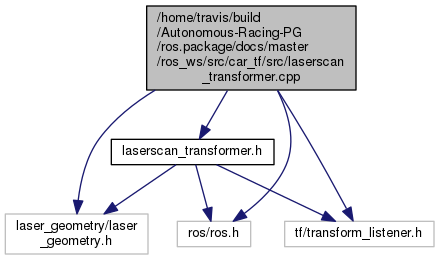
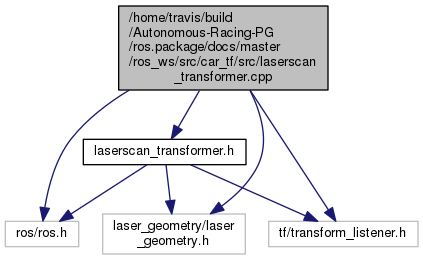
Deploy code docs to GitHub Pages Travis build: 1035
Commit: b9d086582c2d78c8a29aee9b146b80d62b1f7d7c

diff --git a/html/laserscan__transformer_8h_source.html b/html/laserscan__transformer_8h_source.html
@@ -111,10 +111,10 @@ $(document).ready(function(){initNavTree('laserscan__transformer_8h_source.html'
 <div class="title">laserscan_transformer.h</div>  </div>
 </div><!--header-->
 <div class="contents">
-<a href="laserscan__transformer_8h.html">Go to the documentation of this file.</a><div class="fragment"><div class="line"><a name="l00001"></a><span class="lineno">    1</span>&#160;<span class="preprocessor">#pragma once</span></div><div class="line"><a name="l00002"></a><span class="lineno">    2</span>&#160;</div><div class="line"><a name="l00003"></a><span class="lineno">    3</span>&#160;<span class="preprocessor">#include &lt;laser_geometry/laser_geometry.h&gt;</span></div><div class="line"><a name="l00004"></a><span class="lineno">    4</span>&#160;<span class="preprocessor">#include &lt;ros/ros.h&gt;</span></div><div class="line"><a name="l00005"></a><span class="lineno">    5</span>&#160;<span class="preprocessor">#include &lt;tf/transform_listener.h&gt;</span></div><div class="line"><a name="l00006"></a><span class="lineno">    6</span>&#160;</div><div class="line"><a name="l00007"></a><span class="lineno"><a class="line" href="laserscan__transformer_8h.html#a47333d71d0bb2a72869aa7441034798c">    7</a></span>&#160;constexpr <span class="keyword">const</span> <span class="keywordtype">char</span>* <a class="code" href="laserscan__transformer_8h.html#a47333d71d0bb2a72869aa7441034798c">TOPIC_LASER_SCAN</a> = <span class="stringliteral">&quot;/racer/laser/scan&quot;</span>;</div><div class="line"><a name="l00008"></a><span class="lineno"><a class="line" href="laserscan__transformer_8h.html#a71026150c7c235a54f41d65e2e09d179">    8</a></span>&#160;constexpr <span class="keyword">const</span> <span class="keywordtype">char</span>* <a class="code" href="laserscan__transformer_8h.html#a71026150c7c235a54f41d65e2e09d179">TOPIC_LASER_SCAN_POINTCLOUD</a> = <span class="stringliteral">&quot;/racer/laser/tf_pointcloud&quot;</span>;</div><div class="line"><a name="l00009"></a><span class="lineno"><a class="line" href="laserscan__transformer_8h.html#a4926bba825b08114a4703807e2639725">    9</a></span>&#160;constexpr <span class="keyword">const</span> <span class="keywordtype">char</span>* <a class="code" href="laserscan__transformer_8h.html#a4926bba825b08114a4703807e2639725">MODEL_BASE_LINK</a> = <span class="stringliteral">&quot;base_link&quot;</span>;</div><div class="line"><a name="l00010"></a><span class="lineno">   10</span>&#160;</div><div class="line"><a name="l00019"></a><span class="lineno"><a class="line" href="class_laserscan_transformer.html">   19</a></span>&#160;<span class="keyword">class </span><a class="code" href="class_laserscan_transformer.html">LaserscanTransformer</a></div><div class="line"><a name="l00020"></a><span class="lineno">   20</span>&#160;{</div><div class="line"><a name="l00021"></a><span class="lineno">   21</span>&#160;    <span class="keyword">public</span>:</div><div class="line"><a name="l00022"></a><span class="lineno">   22</span>&#160;    <a class="code" href="class_laserscan_transformer.html#a3fe9989fc225e8eaeea106f58db09db0">LaserscanTransformer</a>();</div><div class="line"><a name="l00023"></a><span class="lineno">   23</span>&#160;</div><div class="line"><a name="l00024"></a><span class="lineno">   24</span>&#160;    <span class="keyword">private</span>:</div><div class="line"><a name="l00025"></a><span class="lineno">   25</span>&#160;    ros::NodeHandle m_node_handle;</div><div class="line"><a name="l00026"></a><span class="lineno">   26</span>&#160;    ros::Subscriber m_laserscan_subscriber;</div><div class="line"><a name="l00027"></a><span class="lineno">   27</span>&#160;    ros::Publisher m_pointcloud_publisher;</div><div class="line"><a name="l00028"></a><span class="lineno">   28</span>&#160;    laser_geometry::LaserProjection m_projector;</div><div class="line"><a name="l00029"></a><span class="lineno">   29</span>&#160;    tf::TransformListener m_listener;</div><div class="line"><a name="l00030"></a><span class="lineno">   30</span>&#160;</div><div class="line"><a name="l00031"></a><span class="lineno">   31</span>&#160;    <span class="keywordtype">void</span> scanCallback(<span class="keyword">const</span> sensor_msgs::LaserScan::ConstPtr&amp; laserscan);</div><div class="line"><a name="l00032"></a><span class="lineno">   32</span>&#160;};</div><div class="ttc" id="class_laserscan_transformer_html"><div class="ttname"><a href="class_laserscan_transformer.html">LaserscanTransformer</a></div><div class="ttdoc">This converter class converts a 2D laser scan as defined by sensor_msgs/LaserScan into a point cloud ...</div><div class="ttdef"><b>Definition:</b> <a href="laserscan__transformer_8h_source.html#l00019">laserscan_transformer.h:19</a></div></div>
-<div class="ttc" id="laserscan__transformer_8h_html_a4926bba825b08114a4703807e2639725"><div class="ttname"><a href="laserscan__transformer_8h.html#a4926bba825b08114a4703807e2639725">MODEL_BASE_LINK</a></div><div class="ttdeci">constexpr const char * MODEL_BASE_LINK</div><div class="ttdef"><b>Definition:</b> <a href="laserscan__transformer_8h_source.html#l00009">laserscan_transformer.h:9</a></div></div>
-<div class="ttc" id="laserscan__transformer_8h_html_a47333d71d0bb2a72869aa7441034798c"><div class="ttname"><a href="laserscan__transformer_8h.html#a47333d71d0bb2a72869aa7441034798c">TOPIC_LASER_SCAN</a></div><div class="ttdeci">constexpr const char * TOPIC_LASER_SCAN</div><div class="ttdef"><b>Definition:</b> <a href="laserscan__transformer_8h_source.html#l00007">laserscan_transformer.h:7</a></div></div>
-<div class="ttc" id="laserscan__transformer_8h_html_a71026150c7c235a54f41d65e2e09d179"><div class="ttname"><a href="laserscan__transformer_8h.html#a71026150c7c235a54f41d65e2e09d179">TOPIC_LASER_SCAN_POINTCLOUD</a></div><div class="ttdeci">constexpr const char * TOPIC_LASER_SCAN_POINTCLOUD</div><div class="ttdef"><b>Definition:</b> <a href="laserscan__transformer_8h_source.html#l00008">laserscan_transformer.h:8</a></div></div>
+<a href="laserscan__transformer_8h.html">Go to the documentation of this file.</a><div class="fragment"><div class="line"><a name="l00001"></a><span class="lineno">    1</span>&#160;<span class="preprocessor">#pragma once</span></div><div class="line"><a name="l00002"></a><span class="lineno">    2</span>&#160;</div><div class="line"><a name="l00003"></a><span class="lineno">    3</span>&#160;<span class="preprocessor">#include &lt;ros/ros.h&gt;</span></div><div class="line"><a name="l00004"></a><span class="lineno">    4</span>&#160;</div><div class="line"><a name="l00005"></a><span class="lineno">    5</span>&#160;<span class="preprocessor">#pragma GCC diagnostic push</span></div><div class="line"><a name="l00006"></a><span class="lineno">    6</span>&#160;<span class="preprocessor">#pragma GCC diagnostic ignored &quot;-Wfloat-equal&quot;</span></div><div class="line"><a name="l00007"></a><span class="lineno">    7</span>&#160;<span class="preprocessor">#pragma GCC diagnostic ignored &quot;-Wdouble-promotion&quot;</span></div><div class="line"><a name="l00008"></a><span class="lineno">    8</span>&#160;<span class="preprocessor">#include &lt;laser_geometry/laser_geometry.h&gt;</span></div><div class="line"><a name="l00009"></a><span class="lineno">    9</span>&#160;<span class="preprocessor">#include &lt;tf/transform_listener.h&gt;</span></div><div class="line"><a name="l00010"></a><span class="lineno">   10</span>&#160;<span class="preprocessor">#pragma GCC diagnostic pop</span></div><div class="line"><a name="l00011"></a><span class="lineno">   11</span>&#160;</div><div class="line"><a name="l00012"></a><span class="lineno"><a class="line" href="laserscan__transformer_8h.html#a47333d71d0bb2a72869aa7441034798c">   12</a></span>&#160;constexpr <span class="keyword">const</span> <span class="keywordtype">char</span>* <a class="code" href="laserscan__transformer_8h.html#a47333d71d0bb2a72869aa7441034798c">TOPIC_LASER_SCAN</a> = <span class="stringliteral">&quot;/racer/laser/scan&quot;</span>;</div><div class="line"><a name="l00013"></a><span class="lineno"><a class="line" href="laserscan__transformer_8h.html#a71026150c7c235a54f41d65e2e09d179">   13</a></span>&#160;constexpr <span class="keyword">const</span> <span class="keywordtype">char</span>* <a class="code" href="laserscan__transformer_8h.html#a71026150c7c235a54f41d65e2e09d179">TOPIC_LASER_SCAN_POINTCLOUD</a> = <span class="stringliteral">&quot;/racer/laser/tf_pointcloud&quot;</span>;</div><div class="line"><a name="l00014"></a><span class="lineno"><a class="line" href="laserscan__transformer_8h.html#a4926bba825b08114a4703807e2639725">   14</a></span>&#160;constexpr <span class="keyword">const</span> <span class="keywordtype">char</span>* <a class="code" href="laserscan__transformer_8h.html#a4926bba825b08114a4703807e2639725">MODEL_BASE_LINK</a> = <span class="stringliteral">&quot;base_link&quot;</span>;</div><div class="line"><a name="l00015"></a><span class="lineno">   15</span>&#160;</div><div class="line"><a name="l00024"></a><span class="lineno"><a class="line" href="class_laserscan_transformer.html">   24</a></span>&#160;<span class="keyword">class </span><a class="code" href="class_laserscan_transformer.html">LaserscanTransformer</a></div><div class="line"><a name="l00025"></a><span class="lineno">   25</span>&#160;{</div><div class="line"><a name="l00026"></a><span class="lineno">   26</span>&#160;    <span class="keyword">public</span>:</div><div class="line"><a name="l00027"></a><span class="lineno">   27</span>&#160;    <a class="code" href="class_laserscan_transformer.html#a3fe9989fc225e8eaeea106f58db09db0">LaserscanTransformer</a>();</div><div class="line"><a name="l00028"></a><span class="lineno">   28</span>&#160;</div><div class="line"><a name="l00029"></a><span class="lineno">   29</span>&#160;    <span class="keyword">private</span>:</div><div class="line"><a name="l00030"></a><span class="lineno">   30</span>&#160;    ros::NodeHandle m_node_handle;</div><div class="line"><a name="l00031"></a><span class="lineno">   31</span>&#160;    ros::Subscriber m_laserscan_subscriber;</div><div class="line"><a name="l00032"></a><span class="lineno">   32</span>&#160;    ros::Publisher m_pointcloud_publisher;</div><div class="line"><a name="l00033"></a><span class="lineno">   33</span>&#160;    laser_geometry::LaserProjection m_projector;</div><div class="line"><a name="l00034"></a><span class="lineno">   34</span>&#160;    tf::TransformListener m_listener;</div><div class="line"><a name="l00035"></a><span class="lineno">   35</span>&#160;</div><div class="line"><a name="l00036"></a><span class="lineno">   36</span>&#160;    <span class="keywordtype">void</span> scanCallback(<span class="keyword">const</span> sensor_msgs::LaserScan::ConstPtr&amp; laserscan);</div><div class="line"><a name="l00037"></a><span class="lineno">   37</span>&#160;};</div><div class="ttc" id="class_laserscan_transformer_html"><div class="ttname"><a href="class_laserscan_transformer.html">LaserscanTransformer</a></div><div class="ttdoc">This converter class converts a 2D laser scan as defined by sensor_msgs/LaserScan into a point cloud ...</div><div class="ttdef"><b>Definition:</b> <a href="laserscan__transformer_8h_source.html#l00024">laserscan_transformer.h:24</a></div></div>
+<div class="ttc" id="laserscan__transformer_8h_html_a4926bba825b08114a4703807e2639725"><div class="ttname"><a href="laserscan__transformer_8h.html#a4926bba825b08114a4703807e2639725">MODEL_BASE_LINK</a></div><div class="ttdeci">constexpr const char * MODEL_BASE_LINK</div><div class="ttdef"><b>Definition:</b> <a href="laserscan__transformer_8h_source.html#l00014">laserscan_transformer.h:14</a></div></div>
+<div class="ttc" id="laserscan__transformer_8h_html_a47333d71d0bb2a72869aa7441034798c"><div class="ttname"><a href="laserscan__transformer_8h.html#a47333d71d0bb2a72869aa7441034798c">TOPIC_LASER_SCAN</a></div><div class="ttdeci">constexpr const char * TOPIC_LASER_SCAN</div><div class="ttdef"><b>Definition:</b> <a href="laserscan__transformer_8h_source.html#l00012">laserscan_transformer.h:12</a></div></div>
+<div class="ttc" id="laserscan__transformer_8h_html_a71026150c7c235a54f41d65e2e09d179"><div class="ttname"><a href="laserscan__transformer_8h.html#a71026150c7c235a54f41d65e2e09d179">TOPIC_LASER_SCAN_POINTCLOUD</a></div><div class="ttdeci">constexpr const char * TOPIC_LASER_SCAN_POINTCLOUD</div><div class="ttdef"><b>Definition:</b> <a href="laserscan__transformer_8h_source.html#l00013">laserscan_transformer.h:13</a></div></div>
 <div class="ttc" id="class_laserscan_transformer_html_a3fe9989fc225e8eaeea106f58db09db0"><div class="ttname"><a href="class_laserscan_transformer.html#a3fe9989fc225e8eaeea106f58db09db0">LaserscanTransformer::LaserscanTransformer</a></div><div class="ttdeci">LaserscanTransformer()</div><div class="ttdef"><b>Definition:</b> <a href="laserscan__transformer_8cpp_source.html#l00006">laserscan_transformer.cpp:6</a></div></div>
 </div><!-- fragment --></div><!-- contents -->
 </div><!-- doc-content -->

diff --git a/html/laserscan__transformer_8cpp_source.html b/html/laserscan__transformer_8cpp_source.html
@@ -113,8 +113,8 @@ $(document).ready(function(){initNavTree('laserscan__transformer_8cpp_source.htm
 <div class="contents">
 <a href="laserscan__transformer_8cpp.html">Go to the documentation of this file.</a><div class="fragment"><div class="line"><a name="l00001"></a><span class="lineno">    1</span>&#160;<span class="preprocessor">#include &quot;<a class="code" href="laserscan__transformer_8h.html">laserscan_transformer.h</a>&quot;</span></div><div class="line"><a name="l00002"></a><span class="lineno">    2</span>&#160;<span class="preprocessor">#include &lt;laser_geometry/laser_geometry.h&gt;</span></div><div class="line"><a name="l00003"></a><span class="lineno">    3</span>&#160;<span class="preprocessor">#include &lt;ros/ros.h&gt;</span></div><div class="line"><a name="l00004"></a><span class="lineno">    4</span>&#160;<span class="preprocessor">#include &lt;tf/transform_listener.h&gt;</span></div><div class="line"><a name="l00005"></a><span class="lineno">    5</span>&#160;</div><div class="line"><a name="l00006"></a><span class="lineno"><a class="line" href="class_laserscan_transformer.html#a3fe9989fc225e8eaeea106f58db09db0">    6</a></span>&#160;<a class="code" href="class_laserscan_transformer.html#a3fe9989fc225e8eaeea106f58db09db0">LaserscanTransformer::LaserscanTransformer</a>()</div><div class="line"><a name="l00007"></a><span class="lineno">    7</span>&#160;{</div><div class="line"><a name="l00008"></a><span class="lineno">    8</span>&#160;    m_laserscan_subscriber = m_node_handle.subscribe&lt;sensor_msgs::LaserScan&gt;(<a class="code" href="emergency__stop_8h.html#a47333d71d0bb2a72869aa7441034798c">TOPIC_LASER_SCAN</a>, 100,</div><div class="line"><a name="l00009"></a><span class="lineno">    9</span>&#160;                                                                             &amp;LaserscanTransformer::scanCallback, <span class="keyword">this</span>);</div><div class="line"><a name="l00010"></a><span class="lineno">   10</span>&#160;    m_pointcloud_publisher = m_node_handle.advertise&lt;sensor_msgs::PointCloud2&gt;(<a class="code" href="laserscan__transformer_8h.html#a71026150c7c235a54f41d65e2e09d179">TOPIC_LASER_SCAN_POINTCLOUD</a>, 100, <span class="keyword">false</span>);</div><div class="line"><a name="l00011"></a><span class="lineno">   11</span>&#160;}</div><div class="line"><a name="l00012"></a><span class="lineno">   12</span>&#160;</div><div class="line"><a name="l00013"></a><span class="lineno">   13</span>&#160;<span class="keywordtype">void</span> LaserscanTransformer::scanCallback(<span class="keyword">const</span> sensor_msgs::LaserScan::ConstPtr&amp; laserscan)</div><div class="line"><a name="l00014"></a><span class="lineno">   14</span>&#160;{</div><div class="line"><a name="l00015"></a><span class="lineno">   15</span>&#160;    sensor_msgs::PointCloud2 pointcloud;</div><div class="line"><a name="l00016"></a><span class="lineno">   16</span>&#160;    m_projector.transformLaserScanToPointCloud(<a class="code" href="laserscan__transformer_8h.html#a4926bba825b08114a4703807e2639725">MODEL_BASE_LINK</a>, *laserscan, pointcloud, m_listener);</div><div class="line"><a name="l00017"></a><span class="lineno">   17</span>&#160;    m_pointcloud_publisher.publish(pointcloud);</div><div class="line"><a name="l00018"></a><span class="lineno">   18</span>&#160;}</div><div class="ttc" id="laserscan__transformer_8h_html"><div class="ttname"><a href="laserscan__transformer_8h.html">laserscan_transformer.h</a></div></div>
 <div class="ttc" id="emergency__stop_8h_html_a47333d71d0bb2a72869aa7441034798c"><div class="ttname"><a href="emergency__stop_8h.html#a47333d71d0bb2a72869aa7441034798c">TOPIC_LASER_SCAN</a></div><div class="ttdeci">constexpr const char * TOPIC_LASER_SCAN</div><div class="ttdef"><b>Definition:</b> <a href="emergency__stop_8h_source.html#l00017">emergency_stop.h:17</a></div></div>
-<div class="ttc" id="laserscan__transformer_8h_html_a4926bba825b08114a4703807e2639725"><div class="ttname"><a href="laserscan__transformer_8h.html#a4926bba825b08114a4703807e2639725">MODEL_BASE_LINK</a></div><div class="ttdeci">constexpr const char * MODEL_BASE_LINK</div><div class="ttdef"><b>Definition:</b> <a href="laserscan__transformer_8h_source.html#l00009">laserscan_transformer.h:9</a></div></div>
-<div class="ttc" id="laserscan__transformer_8h_html_a71026150c7c235a54f41d65e2e09d179"><div class="ttname"><a href="laserscan__transformer_8h.html#a71026150c7c235a54f41d65e2e09d179">TOPIC_LASER_SCAN_POINTCLOUD</a></div><div class="ttdeci">constexpr const char * TOPIC_LASER_SCAN_POINTCLOUD</div><div class="ttdef"><b>Definition:</b> <a href="laserscan__transformer_8h_source.html#l00008">laserscan_transformer.h:8</a></div></div>
+<div class="ttc" id="laserscan__transformer_8h_html_a4926bba825b08114a4703807e2639725"><div class="ttname"><a href="laserscan__transformer_8h.html#a4926bba825b08114a4703807e2639725">MODEL_BASE_LINK</a></div><div class="ttdeci">constexpr const char * MODEL_BASE_LINK</div><div class="ttdef"><b>Definition:</b> <a href="laserscan__transformer_8h_source.html#l00014">laserscan_transformer.h:14</a></div></div>
+<div class="ttc" id="laserscan__transformer_8h_html_a71026150c7c235a54f41d65e2e09d179"><div class="ttname"><a href="laserscan__transformer_8h.html#a71026150c7c235a54f41d65e2e09d179">TOPIC_LASER_SCAN_POINTCLOUD</a></div><div class="ttdeci">constexpr const char * TOPIC_LASER_SCAN_POINTCLOUD</div><div class="ttdef"><b>Definition:</b> <a href="laserscan__transformer_8h_source.html#l00013">laserscan_transformer.h:13</a></div></div>
 <div class="ttc" id="class_laserscan_transformer_html_a3fe9989fc225e8eaeea106f58db09db0"><div class="ttname"><a href="class_laserscan_transformer.html#a3fe9989fc225e8eaeea106f58db09db0">LaserscanTransformer::LaserscanTransformer</a></div><div class="ttdeci">LaserscanTransformer()</div><div class="ttdef"><b>Definition:</b> <a href="laserscan__transformer_8cpp_source.html#l00006">laserscan_transformer.cpp:6</a></div></div>
 </div><!-- fragment --></div><!-- contents -->
 </div><!-- doc-content -->

diff --git a/html/car__tf_2src_2main_8cpp_source.html b/html/car__tf_2src_2main_8cpp_source.html
@@ -112,7 +112,7 @@ $(document).ready(function(){initNavTree('car__tf_2src_2main_8cpp_source.html','
 </div><!--header-->
 <div class="contents">
 <a href="car__tf_2src_2main_8cpp.html">Go to the documentation of this file.</a><div class="fragment"><div class="line"><a name="l00001"></a><span class="lineno">    1</span>&#160;<span class="preprocessor">#include &quot;<a class="code" href="laserscan__transformer_8h.html">laserscan_transformer.h</a>&quot;</span></div><div class="line"><a name="l00009"></a><span class="lineno"><a class="line" href="car__tf_2src_2main_8cpp.html#a3c04138a5bfe5d72780bb7e82a18e627">    9</a></span>&#160;<span class="keywordtype">int</span> <a class="code" href="car__tf_2src_2main_8cpp.html#a3c04138a5bfe5d72780bb7e82a18e627">main</a>(<span class="keywordtype">int</span> argc, <span class="keywordtype">char</span>** argv)</div><div class="line"><a name="l00010"></a><span class="lineno">   10</span>&#160;{</div><div class="line"><a name="l00011"></a><span class="lineno">   11</span>&#160;    ros::init(argc, argv, <span class="stringliteral">&quot;laserscan_transformer&quot;</span>);</div><div class="line"><a name="l00012"></a><span class="lineno">   12</span>&#160;    <a class="code" href="class_laserscan_transformer.html">LaserscanTransformer</a> tf_laserscan_to_pointcloud;</div><div class="line"><a name="l00013"></a><span class="lineno">   13</span>&#160;    ros::spin();</div><div class="line"><a name="l00014"></a><span class="lineno">   14</span>&#160;</div><div class="line"><a name="l00015"></a><span class="lineno">   15</span>&#160;    <span class="keywordflow">return</span> EXIT_SUCCESS;</div><div class="line"><a name="l00016"></a><span class="lineno">   16</span>&#160;}</div><div class="ttc" id="laserscan__transformer_8h_html"><div class="ttname"><a href="laserscan__transformer_8h.html">laserscan_transformer.h</a></div></div>
-<div class="ttc" id="class_laserscan_transformer_html"><div class="ttname"><a href="class_laserscan_transformer.html">LaserscanTransformer</a></div><div class="ttdoc">This converter class converts a 2D laser scan as defined by sensor_msgs/LaserScan into a point cloud ...</div><div class="ttdef"><b>Definition:</b> <a href="laserscan__transformer_8h_source.html#l00019">laserscan_transformer.h:19</a></div></div>
+<div class="ttc" id="class_laserscan_transformer_html"><div class="ttname"><a href="class_laserscan_transformer.html">LaserscanTransformer</a></div><div class="ttdoc">This converter class converts a 2D laser scan as defined by sensor_msgs/LaserScan into a point cloud ...</div><div class="ttdef"><b>Definition:</b> <a href="laserscan__transformer_8h_source.html#l00024">laserscan_transformer.h:24</a></div></div>
 <div class="ttc" id="car__tf_2src_2main_8cpp_html_a3c04138a5bfe5d72780bb7e82a18e627"><div class="ttname"><a href="car__tf_2src_2main_8cpp.html#a3c04138a5bfe5d72780bb7e82a18e627">main</a></div><div class="ttdeci">int main(int argc, char **argv)</div><div class="ttdoc">Starts the laserscan transformer. </div><div class="ttdef"><b>Definition:</b> <a href="car__tf_2src_2main_8cpp_source.html#l00009">main.cpp:9</a></div></div>
 </div><!-- fragment --></div><!-- contents -->
 </div><!-- doc-content -->

diff --git a/html/laserscan__transformer_8h.html b/html/laserscan__transformer_8h.html
@@ -114,8 +114,8 @@ $(document).ready(function(){initNavTree('laserscan__transformer_8h.html','');})
 <div class="title">laserscan_transformer.h File Reference</div>  </div>
 </div><!--header-->
 <div class="contents">
-<div class="textblock"><code>#include &lt;laser_geometry/laser_geometry.h&gt;</code><br />
-<code>#include &lt;ros/ros.h&gt;</code><br />
+<div class="textblock"><code>#include &lt;ros/ros.h&gt;</code><br />
+<code>#include &lt;laser_geometry/laser_geometry.h&gt;</code><br />
 <code>#include &lt;tf/transform_listener.h&gt;</code><br />
 </div><div class="textblock"><div class="dynheader">
 Include dependency graph for laserscan_transformer.h:</div>
@@ -162,7 +162,7 @@ Variables</h2></td></tr>
       </table>
 </div><div class="memdoc">
 
-<p>Definition at line <a class="el" href="laserscan__transformer_8h_source.html#l00009">9</a> of file <a class="el" href="laserscan__transformer_8h_source.html">laserscan_transformer.h</a>.</p>
+<p>Definition at line <a class="el" href="laserscan__transformer_8h_source.html#l00014">14</a> of file <a class="el" href="laserscan__transformer_8h_source.html">laserscan_transformer.h</a>.</p>
 
 </div>
 </div>
@@ -176,7 +176,7 @@ Variables</h2></td></tr>
       </table>
 </div><div class="memdoc">
 
-<p>Definition at line <a class="el" href="laserscan__transformer_8h_source.html#l00007">7</a> of file <a class="el" href="laserscan__transformer_8h_source.html">laserscan_transformer.h</a>.</p>
+<p>Definition at line <a class="el" href="laserscan__transformer_8h_source.html#l00012">12</a> of file <a class="el" href="laserscan__transformer_8h_source.html">laserscan_transformer.h</a>.</p>
 
 </div>
 </div>
@@ -190,7 +190,7 @@ Variables</h2></td></tr>
       </table>
 </div><div class="memdoc">
 
-<p>Definition at line <a class="el" href="laserscan__transformer_8h_source.html#l00008">8</a> of file <a class="el" href="laserscan__transformer_8h_source.html">laserscan_transformer.h</a>.</p>
+<p>Definition at line <a class="el" href="laserscan__transformer_8h_source.html#l00013">13</a> of file <a class="el" href="laserscan__transformer_8h_source.html">laserscan_transformer.h</a>.</p>
 
 </div>
 </div>

diff --git a/html/laserscan__transformer_8cpp.html b/html/laserscan__transformer_8cpp.html
@@ -120,7 +120,7 @@ Include dependency graph for laserscan_transformer.cpp:</div>
 <div class="dyncontent">
 <div class="center"><img src="laserscan__transformer_8cpp__incl.png" border="0" usemap="#_2home_2travis_2build_2_autonomous-_racing-_p_g_2ros_8package_2docs_2master_2ros__ws_2src_2car__tf_2src_2laserscan__transformer_8cpp" alt=""/></div>
 <map name="_2home_2travis_2build_2_autonomous-_racing-_p_g_2ros_8package_2docs_2master_2ros__ws_2src_2car__tf_2src_2laserscan__transformer_8cpp" id="_2home_2travis_2build_2_autonomous-_racing-_p_g_2ros_8package_2docs_2master_2ros__ws_2src_2car__tf_2src_2laserscan__transformer_8cpp">
-<area shape="rect" id="node2" href="laserscan__transformer_8h.html" title="laserscan_transformer.h" alt="" coords="111,139,274,165"/>
+<area shape="rect" id="node2" href="laserscan__transformer_8h.html" title="laserscan_transformer.h" alt="" coords="83,139,246,165"/>
 </map>
 </div>
 </div>

diff --git a/html/class_laserscan_transformer.html b/html/class_laserscan_transformer.html
@@ -130,7 +130,7 @@ Public Member Functions</h2></td></tr>
 <div class="textblock"><p>This converter class converts a 2D laser scan as defined by sensor_msgs/LaserScan into a point cloud as defined by sensor_msgs/PointCloud2. </p>
 <p>The main purpose of this class is the transformation of the LaserScan to the "base_link" of the racer model. </p>
 
-<p>Definition at line <a class="el" href="laserscan__transformer_8h_source.html#l00019">19</a> of file <a class="el" href="laserscan__transformer_8h_source.html">laserscan_transformer.h</a>.</p>
+<p>Definition at line <a class="el" href="laserscan__transformer_8h_source.html#l00024">24</a> of file <a class="el" href="laserscan__transformer_8h_source.html">laserscan_transformer.h</a>.</p>
 </div><h2 class="groupheader">Constructor &amp; Destructor Documentation</h2>
 <a class="anchor" id="a3fe9989fc225e8eaeea106f58db09db0"></a>
 <div class="memitem">

diff --git a/html/car__tf_2src_2main_8cpp.html b/html/car__tf_2src_2main_8cpp.html
@@ -119,7 +119,7 @@ Include dependency graph for main.cpp:</div>
 <div class="dyncontent">
 <div class="center"><img src="car__tf_2src_2main_8cpp__incl.png" border="0" usemap="#_2home_2travis_2build_2_autonomous-_racing-_p_g_2ros_8package_2docs_2master_2ros__ws_2src_2car__tf_2src_2main_8cpp" alt=""/></div>
 <map name="_2home_2travis_2build_2_autonomous-_racing-_p_g_2ros_8package_2docs_2master_2ros__ws_2src_2car__tf_2src_2main_8cpp" id="_2home_2travis_2build_2_autonomous-_racing-_p_g_2ros_8package_2docs_2master_2ros__ws_2src_2car__tf_2src_2main_8cpp">
-<area shape="rect" id="node2" href="laserscan__transformer_8h.html" title="laserscan_transformer.h" alt="" coords="127,124,290,151"/>
+<area shape="rect" id="node2" href="laserscan__transformer_8h.html" title="laserscan_transformer.h" alt="" coords="93,124,255,151"/>
 </map>
 </div>
 </div>

diff --git a/latex/laserscan__transformer_8h.tex b/latex/laserscan__transformer_8h.tex
@@ -1,7 +1,7 @@
 \hypertarget{laserscan__transformer_8h}{}\section{/home/travis/build/\+Autonomous-\/\+Racing-\/\+P\+G/ros.package/docs/master/ros\+\_\+ws/src/car\+\_\+tf/include/laserscan\+\_\+transformer.h File Reference}
 \label{laserscan__transformer_8h}\index{/home/travis/build/\+Autonomous-\/\+Racing-\/\+P\+G/ros.\+package/docs/master/ros\+\_\+ws/src/car\+\_\+tf/include/laserscan\+\_\+transformer.\+h@{/home/travis/build/\+Autonomous-\/\+Racing-\/\+P\+G/ros.\+package/docs/master/ros\+\_\+ws/src/car\+\_\+tf/include/laserscan\+\_\+transformer.\+h}}
-{\ttfamily \#include $<$laser\+\_\+geometry/laser\+\_\+geometry.\+h$>$}\\*
 {\ttfamily \#include $<$ros/ros.\+h$>$}\\*
+{\ttfamily \#include $<$laser\+\_\+geometry/laser\+\_\+geometry.\+h$>$}\\*
 {\ttfamily \#include $<$tf/transform\+\_\+listener.\+h$>$}\\*
 Include dependency graph for laserscan\+\_\+transformer.\+h\+:
 \nopagebreak
@@ -41,19 +41,19 @@ constexpr const char $\ast$ \hyperlink{laserscan__transformer_8h_a4926bba825b081
 \subsubsection[{\texorpdfstring{M\+O\+D\+E\+L\+\_\+\+B\+A\+S\+E\+\_\+\+L\+I\+NK}{MODEL_BASE_LINK}}]{\setlength{\rightskip}{0pt plus 5cm}constexpr const char$\ast$ M\+O\+D\+E\+L\+\_\+\+B\+A\+S\+E\+\_\+\+L\+I\+NK = \char`\"{}base\+\_\+link\char`\"{}}\hypertarget{laserscan__transformer_8h_a4926bba825b08114a4703807e2639725}{}\label{laserscan__transformer_8h_a4926bba825b08114a4703807e2639725}
 
 
-Definition at line 9 of file laserscan\+\_\+transformer.\+h.
+Definition at line 14 of file laserscan\+\_\+transformer.\+h.
 
 \index{laserscan\+\_\+transformer.\+h@{laserscan\+\_\+transformer.\+h}!T\+O\+P\+I\+C\+\_\+\+L\+A\+S\+E\+R\+\_\+\+S\+C\+AN@{T\+O\+P\+I\+C\+\_\+\+L\+A\+S\+E\+R\+\_\+\+S\+C\+AN}}
 \index{T\+O\+P\+I\+C\+\_\+\+L\+A\+S\+E\+R\+\_\+\+S\+C\+AN@{T\+O\+P\+I\+C\+\_\+\+L\+A\+S\+E\+R\+\_\+\+S\+C\+AN}!laserscan\+\_\+transformer.\+h@{laserscan\+\_\+transformer.\+h}}
 \subsubsection[{\texorpdfstring{T\+O\+P\+I\+C\+\_\+\+L\+A\+S\+E\+R\+\_\+\+S\+C\+AN}{TOPIC_LASER_SCAN}}]{\setlength{\rightskip}{0pt plus 5cm}constexpr const char$\ast$ T\+O\+P\+I\+C\+\_\+\+L\+A\+S\+E\+R\+\_\+\+S\+C\+AN = \char`\"{}/racer/laser/scan\char`\"{}}\hypertarget{laserscan__transformer_8h_a47333d71d0bb2a72869aa7441034798c}{}\label{laserscan__transformer_8h_a47333d71d0bb2a72869aa7441034798c}
 
 
-Definition at line 7 of file laserscan\+\_\+transformer.\+h.
+Definition at line 12 of file laserscan\+\_\+transformer.\+h.
 
 \index{laserscan\+\_\+transformer.\+h@{laserscan\+\_\+transformer.\+h}!T\+O\+P\+I\+C\+\_\+\+L\+A\+S\+E\+R\+\_\+\+S\+C\+A\+N\+\_\+\+P\+O\+I\+N\+T\+C\+L\+O\+UD@{T\+O\+P\+I\+C\+\_\+\+L\+A\+S\+E\+R\+\_\+\+S\+C\+A\+N\+\_\+\+P\+O\+I\+N\+T\+C\+L\+O\+UD}}
 \index{T\+O\+P\+I\+C\+\_\+\+L\+A\+S\+E\+R\+\_\+\+S\+C\+A\+N\+\_\+\+P\+O\+I\+N\+T\+C\+L\+O\+UD@{T\+O\+P\+I\+C\+\_\+\+L\+A\+S\+E\+R\+\_\+\+S\+C\+A\+N\+\_\+\+P\+O\+I\+N\+T\+C\+L\+O\+UD}!laserscan\+\_\+transformer.\+h@{laserscan\+\_\+transformer.\+h}}
 \subsubsection[{\texorpdfstring{T\+O\+P\+I\+C\+\_\+\+L\+A\+S\+E\+R\+\_\+\+S\+C\+A\+N\+\_\+\+P\+O\+I\+N\+T\+C\+L\+O\+UD}{TOPIC_LASER_SCAN_POINTCLOUD}}]{\setlength{\rightskip}{0pt plus 5cm}constexpr const char$\ast$ T\+O\+P\+I\+C\+\_\+\+L\+A\+S\+E\+R\+\_\+\+S\+C\+A\+N\+\_\+\+P\+O\+I\+N\+T\+C\+L\+O\+UD = \char`\"{}/racer/laser/tf\+\_\+pointcloud\char`\"{}}\hypertarget{laserscan__transformer_8h_a71026150c7c235a54f41d65e2e09d179}{}\label{laserscan__transformer_8h_a71026150c7c235a54f41d65e2e09d179}
 
 
-Definition at line 8 of file laserscan\+\_\+transformer.\+h.
+Definition at line 13 of file laserscan\+\_\+transformer.\+h.
 

diff --git a/latex/class_laserscan_transformer.tex b/latex/class_laserscan_transformer.tex
@@ -21,7 +21,7 @@ This converter class converts a 2D laser scan as defined by sensor\+\_\+msgs/\+L
 
 The main purpose of this class is the transformation of the Laser\+Scan to the \char`\"{}base\+\_\+link\char`\"{} of the racer model. 
 
-Definition at line 19 of file laserscan\+\_\+transformer.\+h.
+Definition at line 24 of file laserscan\+\_\+transformer.\+h.
 
 
 
